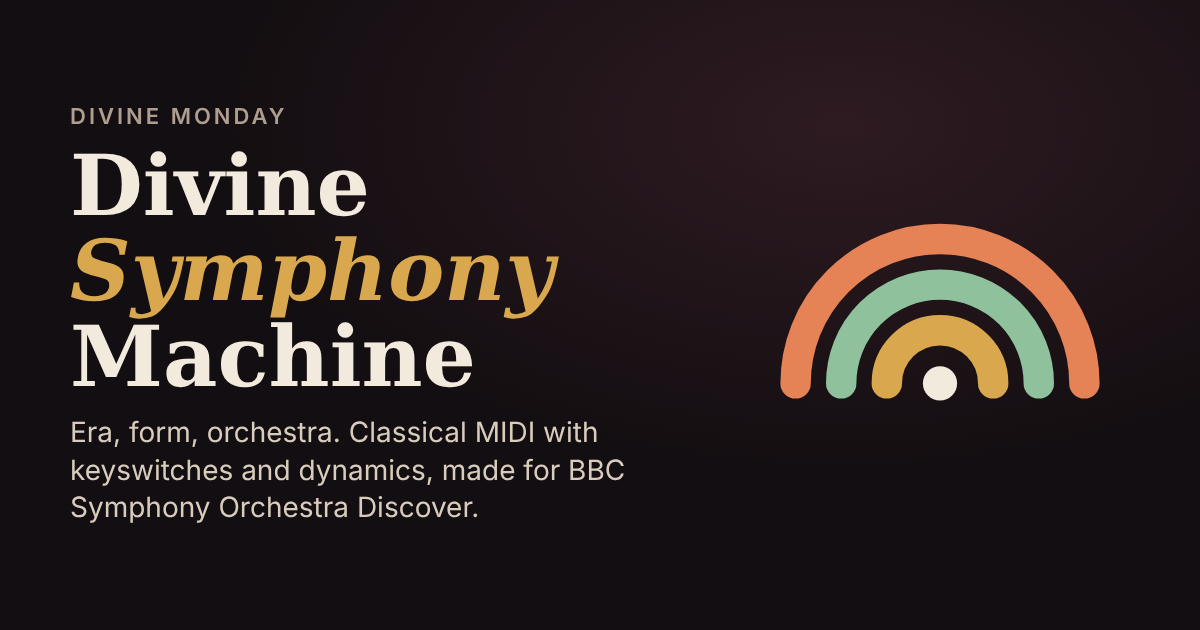
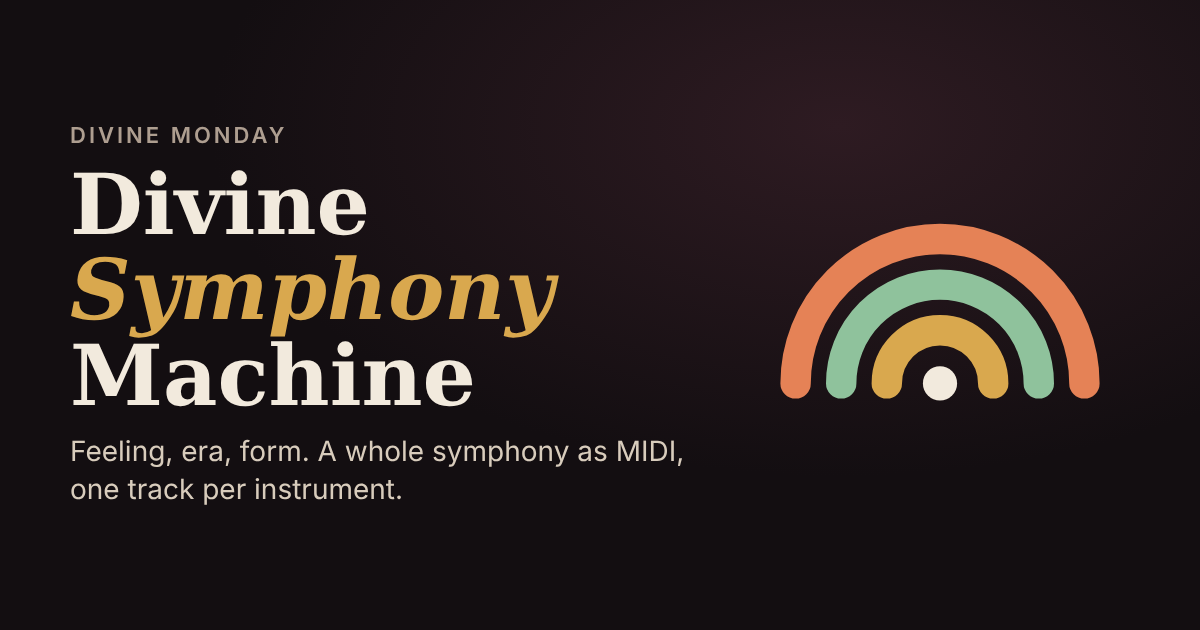
Symphony Machine: link preview without BBC, new share image
Claude-Session: https://claude.ai/code/session_01W3CyePMkCaTVt5D8aFgGLY

Changed region(s): [[0.0617, 0.1508, 0.555, 0.8444]]

diff --git a/symphony/index.html b/symphony/index.html
@@ -1,20 +1,20 @@
 <!doctype html>
 <html lang="en"><head><meta charset="utf-8">
 <meta name="viewport" content="width=device-width,initial-scale=1,viewport-fit=cover">
-<meta name="description" content="Pick an era, a form and your orchestra, get classical MIDI with keyswitches and dynamics. Made especially for Spitfire BBC Symphony Orchestra Discover. By Divine Monday.">
+<meta name="description" content="Pick a feeling, an era and a form, and get a whole symphony as MIDI: one track per instrument, with articulations and dynamics. By Divine Monday.">
 <meta name="author" content="Divine Monday"><meta name="copyright" content="© 2026 Divine Monday. All rights reserved.">
 <meta name="theme-color" content="#130E11">
 <meta property="og:type" content="website">
 <meta property="og:site_name" content="Divine Monday">
 <meta property="og:title" content="Divine Symphony Machine">
-<meta property="og:description" content="Pick an era, a form and your orchestra, get classical MIDI with keyswitches and dynamics. Made especially for Spitfire BBC Symphony Orchestra Discover.">
+<meta property="og:description" content="Pick a feeling, an era and a form, and get a whole symphony as MIDI: one track per instrument, with articulations and dynamics. By Divine Monday.">
 <meta property="og:url" content="https://divineacidmonday.github.io/divine-music-machine-v7/symphony/">
-<meta property="og:image" content="https://divineacidmonday.github.io/divine-music-machine-v7/og/og-symphony.png">
+<meta property="og:image" content="https://divineacidmonday.github.io/divine-music-machine-v7/og/og-symphony.png?v=2">
 <meta property="og:image:width" content="1200">
 <meta property="og:image:height" content="630">
 <meta name="twitter:card" content="summary_large_image">
 <meta name="twitter:title" content="Divine Symphony Machine">
-<meta name="twitter:image" content="https://divineacidmonday.github.io/divine-music-machine-v7/og/og-symphony.png">
+<meta name="twitter:image" content="https://divineacidmonday.github.io/divine-music-machine-v7/og/og-symphony.png?v=2">
 <!--PWA--><link rel="manifest" href="manifest.webmanifest"><link rel="apple-touch-icon" href="/divine-music-machine-v7/icons/symphony-180.png"><meta name="mobile-web-app-capable" content="yes"><meta name="apple-mobile-web-app-capable" content="yes"><meta name="apple-mobile-web-app-status-bar-style" content="black-translucent"><meta name="apple-mobile-web-app-title" content="DM Symphony"><link rel="icon" type="image/png" sizes="192x192" href="/divine-music-machine-v7/icons/symphony-192.png"><script>if ('serviceWorker' in navigator && /\.github\.io$/.test(location.hostname)) navigator.serviceWorker.register('sw.js').catch(function () {});</script><!--/PWA-->
 <title>Divine Symphony Machine</title>
 <style>

diff --git a/symphony/src/app.html b/symphony/src/app.html
@@ -1,20 +1,20 @@
 <!doctype html>
 <html lang="en"><head><meta charset="utf-8">
 <meta name="viewport" content="width=device-width,initial-scale=1,viewport-fit=cover">
-<meta name="description" content="Pick an era, a form and your orchestra, get classical MIDI with keyswitches and dynamics. Made especially for Spitfire BBC Symphony Orchestra Discover. By Divine Monday.">
+<meta name="description" content="Pick a feeling, an era and a form, and get a whole symphony as MIDI: one track per instrument, with articulations and dynamics. By Divine Monday.">
 <meta name="author" content="Divine Monday"><meta name="copyright" content="© 2026 Divine Monday. All rights reserved.">
 <meta name="theme-color" content="#130E11">
 <meta property="og:type" content="website">
 <meta property="og:site_name" content="Divine Monday">
 <meta property="og:title" content="Divine Symphony Machine">
-<meta property="og:description" content="Pick an era, a form and your orchestra, get classical MIDI with keyswitches and dynamics. Made especially for Spitfire BBC Symphony Orchestra Discover.">
+<meta property="og:description" content="Pick a feeling, an era and a form, and get a whole symphony as MIDI: one track per instrument, with articulations and dynamics. By Divine Monday.">
 <meta property="og:url" content="https://divineacidmonday.github.io/divine-music-machine-v7/symphony/">
-<meta property="og:image" content="https://divineacidmonday.github.io/divine-music-machine-v7/og/og-symphony.png">
+<meta property="og:image" content="https://divineacidmonday.github.io/divine-music-machine-v7/og/og-symphony.png?v=2">
 <meta property="og:image:width" content="1200">
 <meta property="og:image:height" content="630">
 <meta name="twitter:card" content="summary_large_image">
 <meta name="twitter:title" content="Divine Symphony Machine">
-<meta name="twitter:image" content="https://divineacidmonday.github.io/divine-music-machine-v7/og/og-symphony.png">
+<meta name="twitter:image" content="https://divineacidmonday.github.io/divine-music-machine-v7/og/og-symphony.png?v=2">
 <!--PWA--><link rel="manifest" href="manifest.webmanifest"><link rel="apple-touch-icon" href="/divine-music-machine-v7/icons/symphony-180.png"><meta name="mobile-web-app-capable" content="yes"><meta name="apple-mobile-web-app-capable" content="yes"><meta name="apple-mobile-web-app-status-bar-style" content="black-translucent"><meta name="apple-mobile-web-app-title" content="DM Symphony"><link rel="icon" type="image/png" sizes="192x192" href="/divine-music-machine-v7/icons/symphony-192.png"><script>if ('serviceWorker' in navigator && /\.github\.io$/.test(location.hostname)) navigator.serviceWorker.register('sw.js').catch(function () {});</script><!--/PWA-->
 <title>Divine Symphony Machine</title>
 <style>
